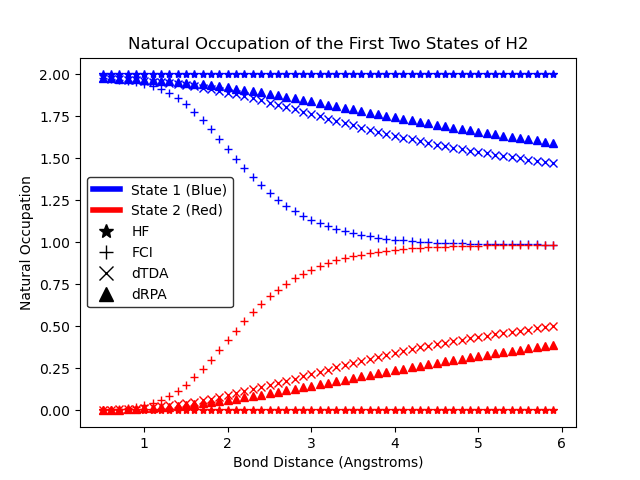
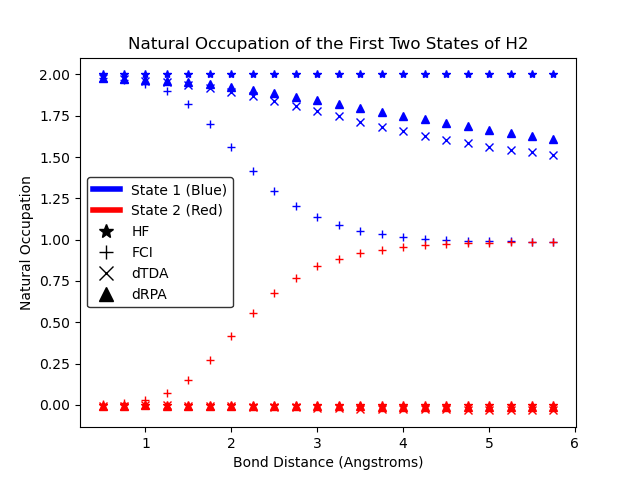
state too incorrect

diff --git a/src/h2plt.py b/src/h2plt.py
@@ -11,7 +11,7 @@ bond_distances = []
 occupations = {'hf': [], 'fci': [], 'dtda': [], 'drpa': []}
 
 # Loop over bond distances
-for bond_distance in np.arange(0.5, 6.0, 0.1):
+for bond_distance in np.arange(0.5, 6.0, 0.25):
     bond_distances.append(bond_distance)
     molecule = pyscf.M(
         atom='H  0 0 0; H  0 0 ' + str(bond_distance),
@@ -29,19 +29,18 @@ for bond_distance in np.arange(0.5, 6.0, 0.1):
     fci_dm = fci_solver.make_rdm1(fci_wfn, norbs, mf.mol.nelectron)
     # now do dtda
     g0w0_dtda_dm = lin_gw_dm(my_dtda(mf), mf)
-    # tda_e, tda_wfn = np.linalg.eigh(g0w0_dtda_dm)
-    # diag_tda = np.diag(tda_e)
+    tda_e, tda_wfn = np.linalg.eig(g0w0_dtda_dm)
+    diag_tda = np.diag(tda_e)
     # now do drpa
     g0w0_drpa_dm = lin_gw_dm(my_drpa(mf), mf)
-    # drpa_e, drpa_wfn = np.linalg.eigh(g0w0_drpa_dm)
-    # diag_drpa = np.diag(drpa_e)
+    drpa_e, drpa_wfn = np.linalg.eig(g0w0_drpa_dm)
+    diag_drpa = np.diag(drpa_e)
 
     # Add occupations for each method
-    for key, dm in zip(['hf', 'fci', 'dtda', 'drpa'], [hf_dm, fci_dm, g0w0_dtda_dm, g0w0_drpa_dm]):
+    for key, dm in zip(['hf', 'fci', 'dtda', 'drpa'], [hf_dm, fci_dm, diag_tda, diag_drpa]):
         if key in ['dtda', 'drpa']:
             # For 'dtda' and 'drpa', multiply both state 0 and state 1 values by 2
-            # Negate the second value as per your requirement
-            occupations[key].append((2*dm[0, 0],  -2*dm[1, 1]))
+            occupations[key].append((dm[0, 0],  dm[1, 1]))
         else:
             # For 'hf' and 'fci', use the values directly without modification
             occupations[key].append((dm[0, 0], dm[1, 1]))

diff --git a/src/dm.py b/src/dm.py
@@ -47,14 +47,13 @@ def lin_gw_dm(td, mf):
     mixed_block = (1/(orbital_energies[:n_occupied, None] - orbital_energies[None, n_occupied:]))*(first_sum - second_sum)
 
     # stack the blocks to form the density matrix
-    dm = dm.astype('complex128')
-    dm[:n_occupied, :n_occupied] += occ_block
-    dm[n_occupied:, n_occupied:] += virt_block
-    dm[:n_occupied, n_occupied:] += mixed_block
-    dm[n_occupied:, :n_occupied] += mixed_block.T
+    dm[:n_occupied, :n_occupied] += np.real(occ_block)
+    dm[n_occupied:, n_occupied:] += np.real(virt_block)
+    dm[:n_occupied, n_occupied:] += np.real(mixed_block)
+    dm[n_occupied:, :n_occupied] += np.real(mixed_block.T)
     
 
-    return dm
+    return 2*dm
 # mol = setup_molecule('h2')
 # mf = calculate_mean_field(mol, 'hf')
 # td = my_dtda(mf)
@@ -67,7 +66,7 @@ def lin_gw_dm(td, mf):
 # # front the sum of the natural or brutal occupation numbers
 # print(np.sum(e))
 # # make a rdm_1 using the pyscf implementation and diagonalize it for the smae mf
-# rdm_1 = mf.make_rdm1()
+# rdm_1 = x.make_rdm1()
 # e, v = np.linalg.eigh(rdm_1)
 # print(e)
 # print(np.sum(e))
